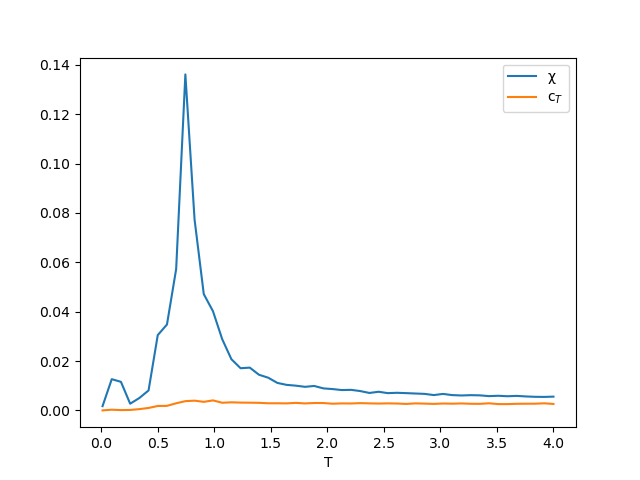
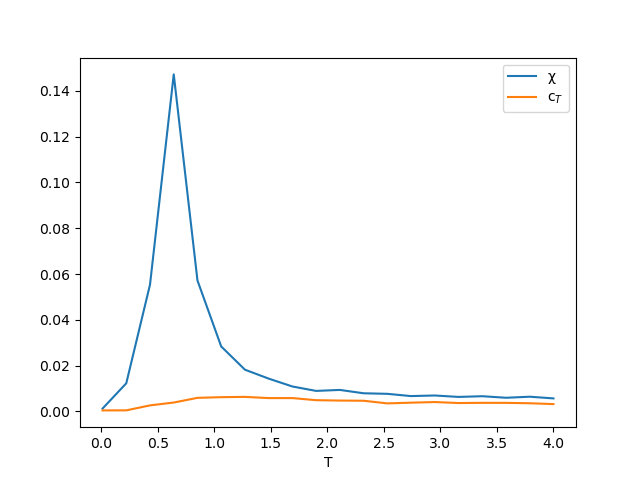
12/08 update

diff --git a/tightbinding/tightbinding.py b/tightbinding/tightbinding.py
@@ -45,9 +45,12 @@ def termmat(Mt,mt,r0,fl0,r1,fl1,Nall):
     Mt[stid(r1,fl1,Nall),stid(r0,fl0,Nall)]+=np.conj(mt)
 
 
+'''Set Hamiltonian'''
+
+
 def tbham(htb,rs,Nall,bc,ltype):
     '''
-    Tight-binding model: Assign the couplings htb=[v0,-t1,-t2] to the Hamiltonian Mt.
+    Tight-binding Hamiltonian: Assign the couplings htb=[v0,-t1,-t2] to the Hamiltonian H.
     v0: Onsite potential
     t1 and t2: Nearest and second neighbor hoppings
     The factor 1/2 is to cancel double counting from the Hermitian assignment in termmat
@@ -59,6 +62,34 @@ def tbham(htb,rs,Nall,bc,ltype):
         # Add matrix elements for the pairs
         [termmat(H,(1./2.)*htb[nd],pairt[0],fl,pairt[1],fl,Nall) for nd in range(len(pairst)) for pairt in pairst[nd] for fl in range(Nall[1])]
     return H
+
+
+def paulimat(n):
+    '''
+    Pauli matrices
+    '''
+    if(n==0):
+        return np.array([[1.,0.],[0.,1.]])
+    elif(n==1):
+        return np.array([[0.,1.],[1.,0.]])
+    elif(n==2):
+        return np.array([[0.,-1.j],[1.j,0.]])
+    elif(n==3):
+        return np.array([[1.,0.],[0.,-1.]])
+
+
+def hamsite(H,vs,rs,Nall):
+    '''
+    Onsite potentials: Assign the couplings vs=[v[r0],v[r1],....] to the Hamiltonian H.
+    v[r]=[v0[r],v1[r],v2[r],v3[r]]: Set the potential v0[r]*sigma_0+v1[r]*sigma_1+v2[r]*sigma_2+v3[r]*sigma_3 to the site r
+    The factor 1/2 is to cancel double counting from the Hermitian assignment in termmat
+    '''
+    for r in rs:
+        # Onsite potential
+        vr=vs[ltc.rid(r,Nall[0])]
+        vrm=(1./2.)*(vr[0]*paulimat(0)+vr[1]*paulimat(1)+vr[2]*paulimat(2)+vr[3]*paulimat(3))
+        # Add matrix elements for the pairs
+        [termmat(H,(1./2.)*vrm[fl0,fl1],r,fl0,r,fl1,Nall) for fl0 in range(Nall[1]) for fl1 in range(Nall[1])]
 
 
 '''Density matrix and the evaluation of charge and spin orders'''
@@ -86,20 +117,6 @@ def paircharge(Pt,r0,r1,Nall):
     Compute the charge of a pair of lattice sites. The onsite charge is real, while the offsite charge can be complex.
     '''
     return np.trace(pairdenmat(Pt,r0,r1,Nall))
-
-
-def paulimat(n):
-    '''
-    Pauli matrices
-    '''
-    if(n==0):
-        return np.array([[1.,0.],[0.,1.]])
-    elif(n==1):
-        return np.array([[0.,1.],[1.,0.]])
-    elif(n==2):
-        return np.array([[0.,-1.j],[1.j,0.]])
-    elif(n==3):
-        return np.array([[1.,0.],[0.,-1.]])
 
 
 def pairspin(Pt,r0,r1,Nall):

diff --git a/montecarlo/montecarlo.py b/montecarlo/montecarlo.py
@@ -21,19 +21,38 @@ def normalized(vt):
     return (1./nmvt)*vt
 
 
+def zfl(fltype,pm):
+    '''
+    Generate a Sz flavor
+    '''
+    dictt={
+            1:np.array([pm]),              # Ising
+            3:pm*np.array([0.,0.,1.])/2.    # Heisenberg
+            }
+    return dictt[fltype]
+
+
 def randomfl(fltype):
     '''
     Generate a random flavor
     '''
     dictt={
             1:np.array([random.choice([-1,1])]),              # Ising
-            3:normalized(np.array([random.uniform(-1.,1,) for n in range(3)]))    # Heisenberg
+            3:normalized(np.array([random.uniform(-1.,1.)/2. for n in range(3)]))    # Heisenberg
             }
     return dictt[fltype]
 
 
-def latticefl(rs,Nltc,fltype):
-    return {ltc.rid(r,Nltc):randomfl(fltype) for r in rs}
+def latticefl(rs,Nltc,fltype,tofm):
+    # Random
+    if(tofm==0):
+        return [randomfl(fltype) for r in rs]
+    # Ferromagnetism
+    elif(tofm==1):
+        return [zfl(fltype,1) for r in rs]
+    # Antiferromagnetism
+    elif(tofm==-1):
+        return [zfl(fltype,1-2*((r[0][0]-r[0][1])%2)) for r in rs]
 
 
 def flipsite(flr,fltype):
@@ -70,7 +89,7 @@ def equilibrate(fls,Js,T,rs,Nltc,Nr,bc,ltype,fltype,NEQ):
     [mcflip(fls,Js,T,rs,Nltc,Nr,bc,ltype,fltype) for n in range(NEQ)]
     
 
-def sampling(fls,Js,T,rs,Nltc,Nr,bc,ltype,fltype,NMC):
+def sampling(fls,Js,T,rs,Nltc,Nr,bc,ltype,fltype,fm,NMC):
     '''
     Monte Carlo sampling
     '''
@@ -80,7 +99,7 @@ def sampling(fls,Js,T,rs,Nltc,Nr,bc,ltype,fltype,NMC):
     esqt=0.
     for n in range(NMC):
         mcflip(fls,Js,T,rs,Nltc,Nr,bc,ltype,fltype)
-        mn=magnetization(fls,rs,Nltc,Nr)
+        mn=magnetization(fls,rs,Nltc,Nr,fm)
         mt+=mn
         msqt+=np.linalg.norm(mn)**2
         en=energy(fls,Js,rs,Nltc,Nr,ltype)
@@ -91,8 +110,8 @@ def sampling(fls,Js,T,rs,Nltc,Nr,bc,ltype,fltype,NMC):
     return chit,cTt
 
 
-def magnetization(fls,rs,Nltc,Nr):
-    return (1./Nr)*sum(fls[ltc.rid(r,Nltc)] for r in rs)
+def magnetization(fls,rs,Nltc,Nr,fm):
+    return (1./Nr)*sum((fm**((r[0][0]-r[0][1])%2))*fls[ltc.rid(r,Nltc)] for r in rs)
 
 
 def energy(fls,Js,rs,Nltc,Nr,ltype):

diff --git a/montecarlo/main.py b/montecarlo/main.py
@@ -15,11 +15,11 @@ import montecarlo as mc
 
 # Lattice setup
 
-ltype=221
-fltype=1
+ltype='sq'
+fltype=3
 print(ltc.ltcname(ltype))
 Nbl=[16,16,1]
-Nsl=ltc.nslf(ltype)
+Nsl=ltc.slnum(ltype)
 Nltc=[Nbl,Nsl]
 Nr=Nltc[0][0]*Nltc[0][1]*Nltc[0][2]*Nltc[1]
 bc=1
@@ -27,9 +27,10 @@ rs=ltc.ltcsites(Nltc)
 
 # Monte Carlo setup
 
-NEQ=100
-NMC=200
-Js=[0.,-1.,0.]
+NEQ=200
+NMC=1000
+fm=-1
+Js=[0.,1.,0.]
 Ts=np.linspace(0.01,4.,num=20).tolist()
 
 chis=[]
@@ -37,15 +38,16 @@ cTs=[]
 
 for T in Ts:
     time1=time.time()
-    fls=mc.latticefl(rs,Nltc,fltype)
+    tofm=0
+    fls=mc.latticefl(rs,Nltc,fltype,tofm)
     mc.equilibrate(fls,Js,Ts[0],rs,Nltc,Nr,bc,ltype,fltype,NEQ)
-    chit,cTt=mc.sampling(fls,Js,T,rs,Nltc,Nr,bc,ltype,fltype,NMC)
+    chit,cTt=mc.sampling(fls,Js,T,rs,Nltc,Nr,bc,ltype,fltype,fm,NMC)
     chis.append(chit)
     cTs.append(cTt)
     time2=time.time()
     print('T = ',T,', time = ',time2-time1)
 
-joblib.dump([Ts,chis,cTs],'data_ising_16x16')
+joblib.dump([Ts,chis,cTs],'data_heisenberg_16x16')
 
 
 

diff --git a/montecarlo/plot.py b/montecarlo/plot.py
@@ -8,7 +8,7 @@ import joblib
 
 
 #Ts,chis,cTs=joblib.load('data_ising_16x16')
-Ts,chis,cTs=joblib.load('data_ising_16x16')
+Ts,chis,cTs=joblib.load('data_heisenberg_16x16')
 
 #print('Ts = ',Ts)
 #print('chis = ',chis)

diff --git a/montecarlo/test.py b/montecarlo/test.py
@@ -1,3 +1,1 @@
-## Main function
-import matplotlib            
-print(matplotlib.rcParams['backend'])
+print((-1)**0,(-1)**1)
